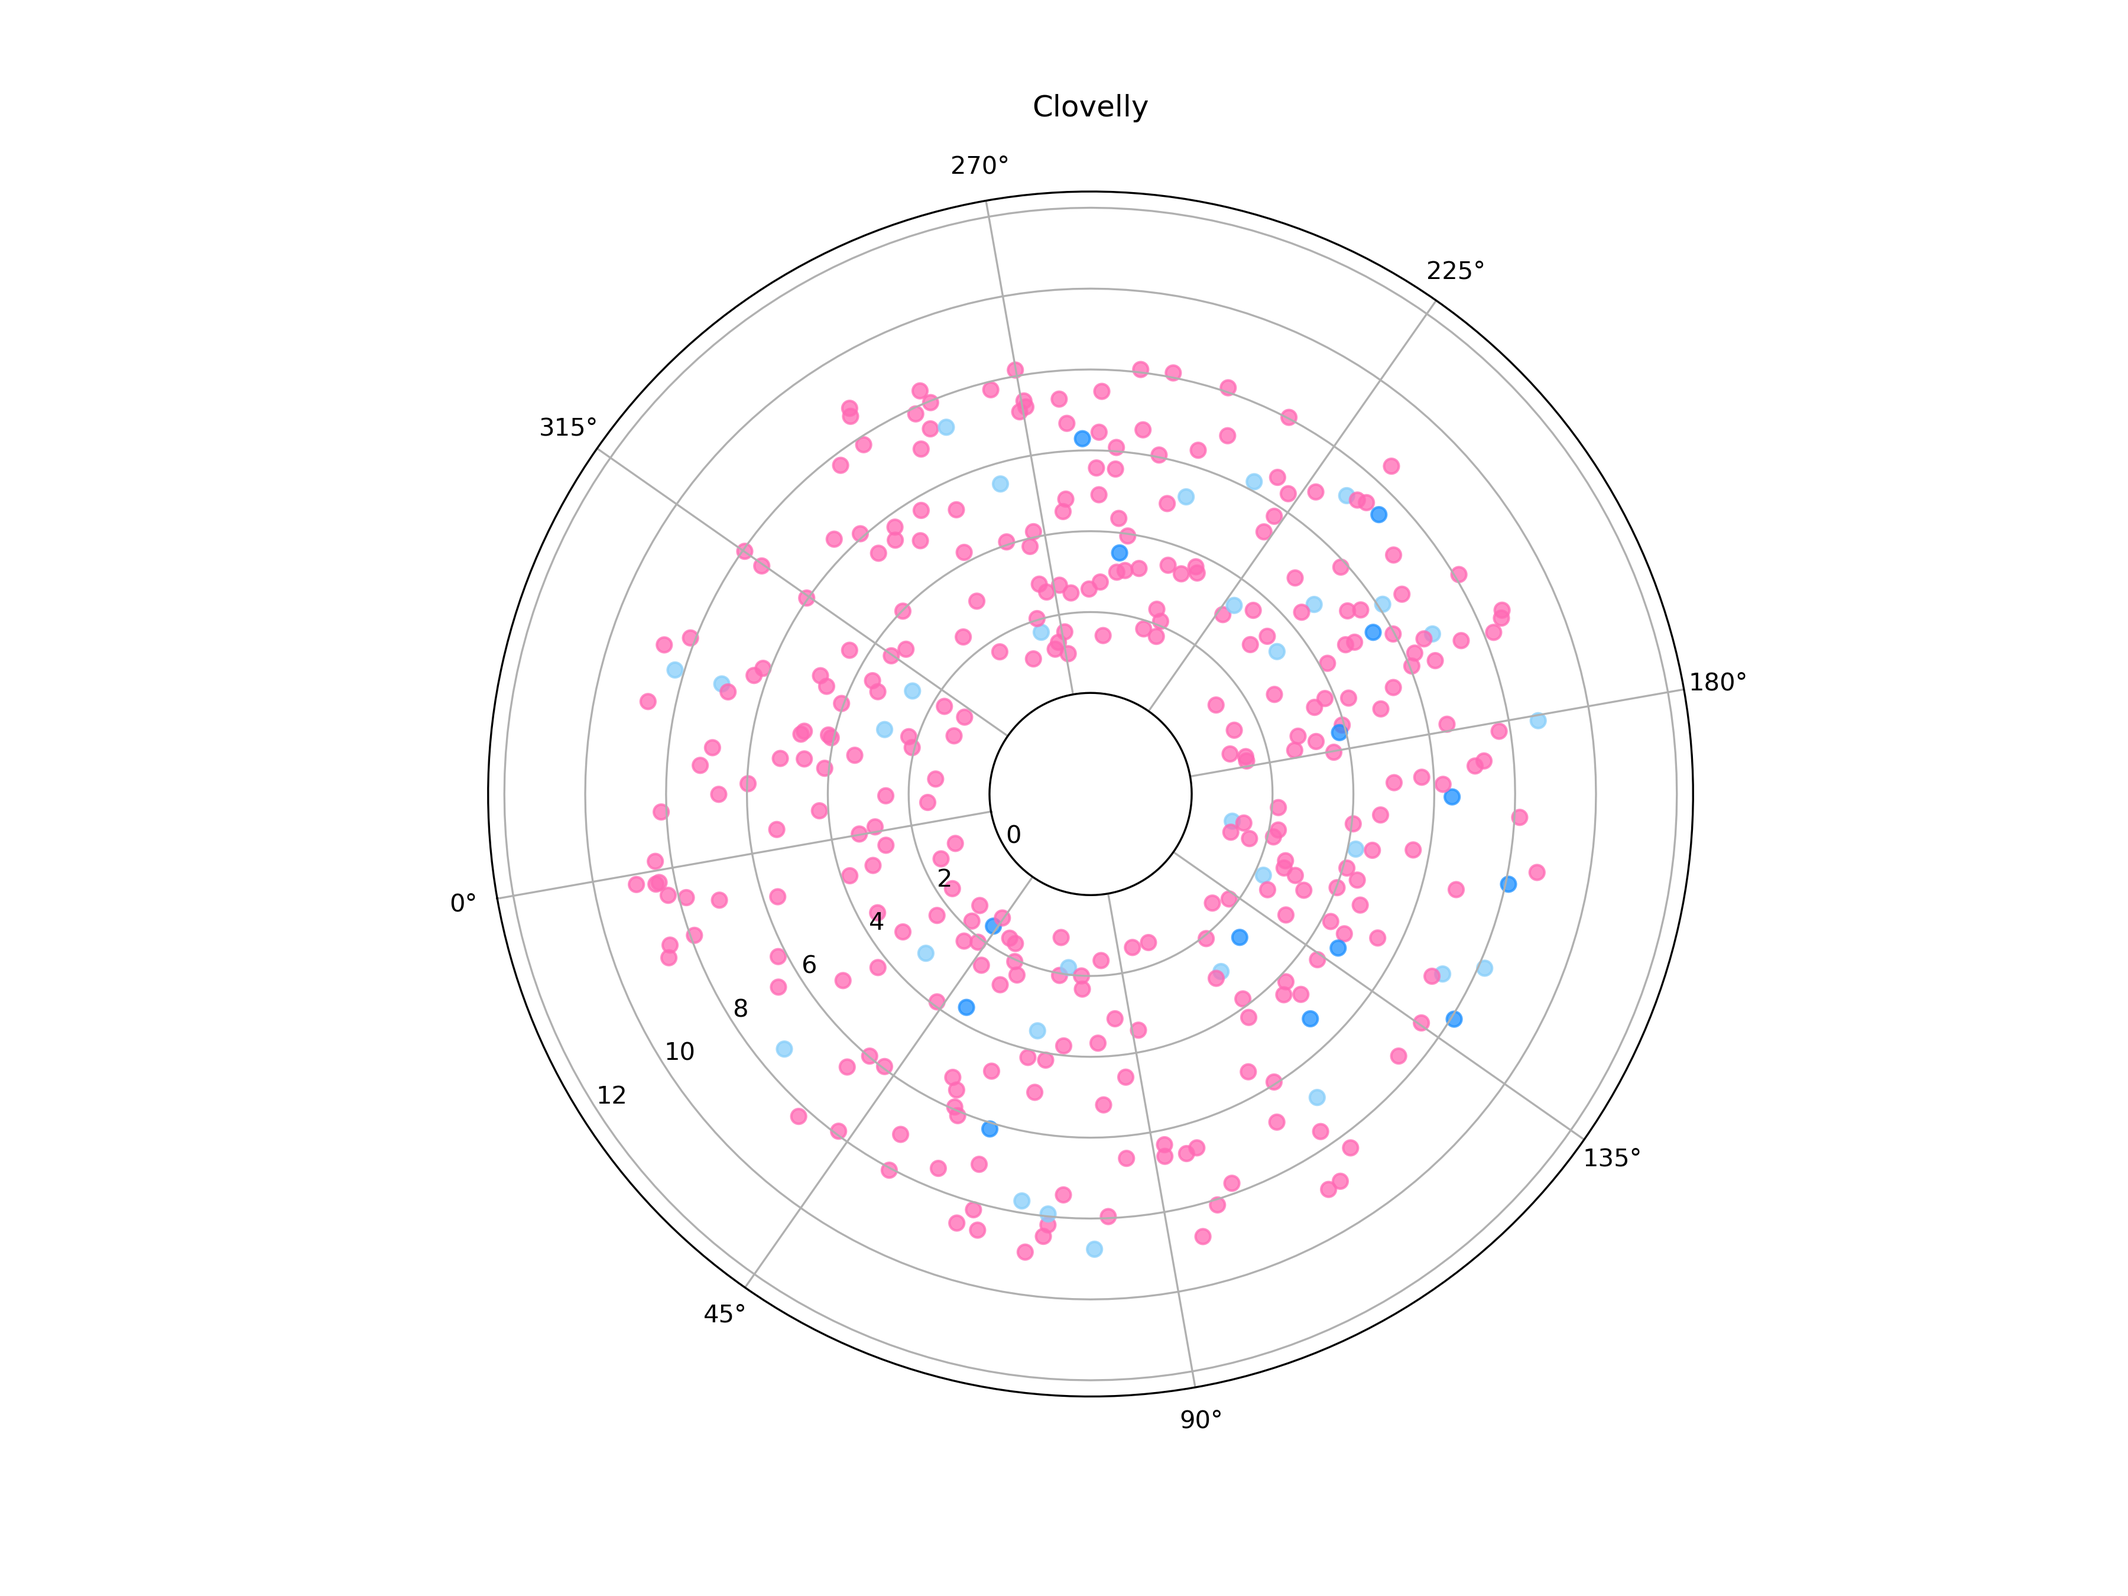
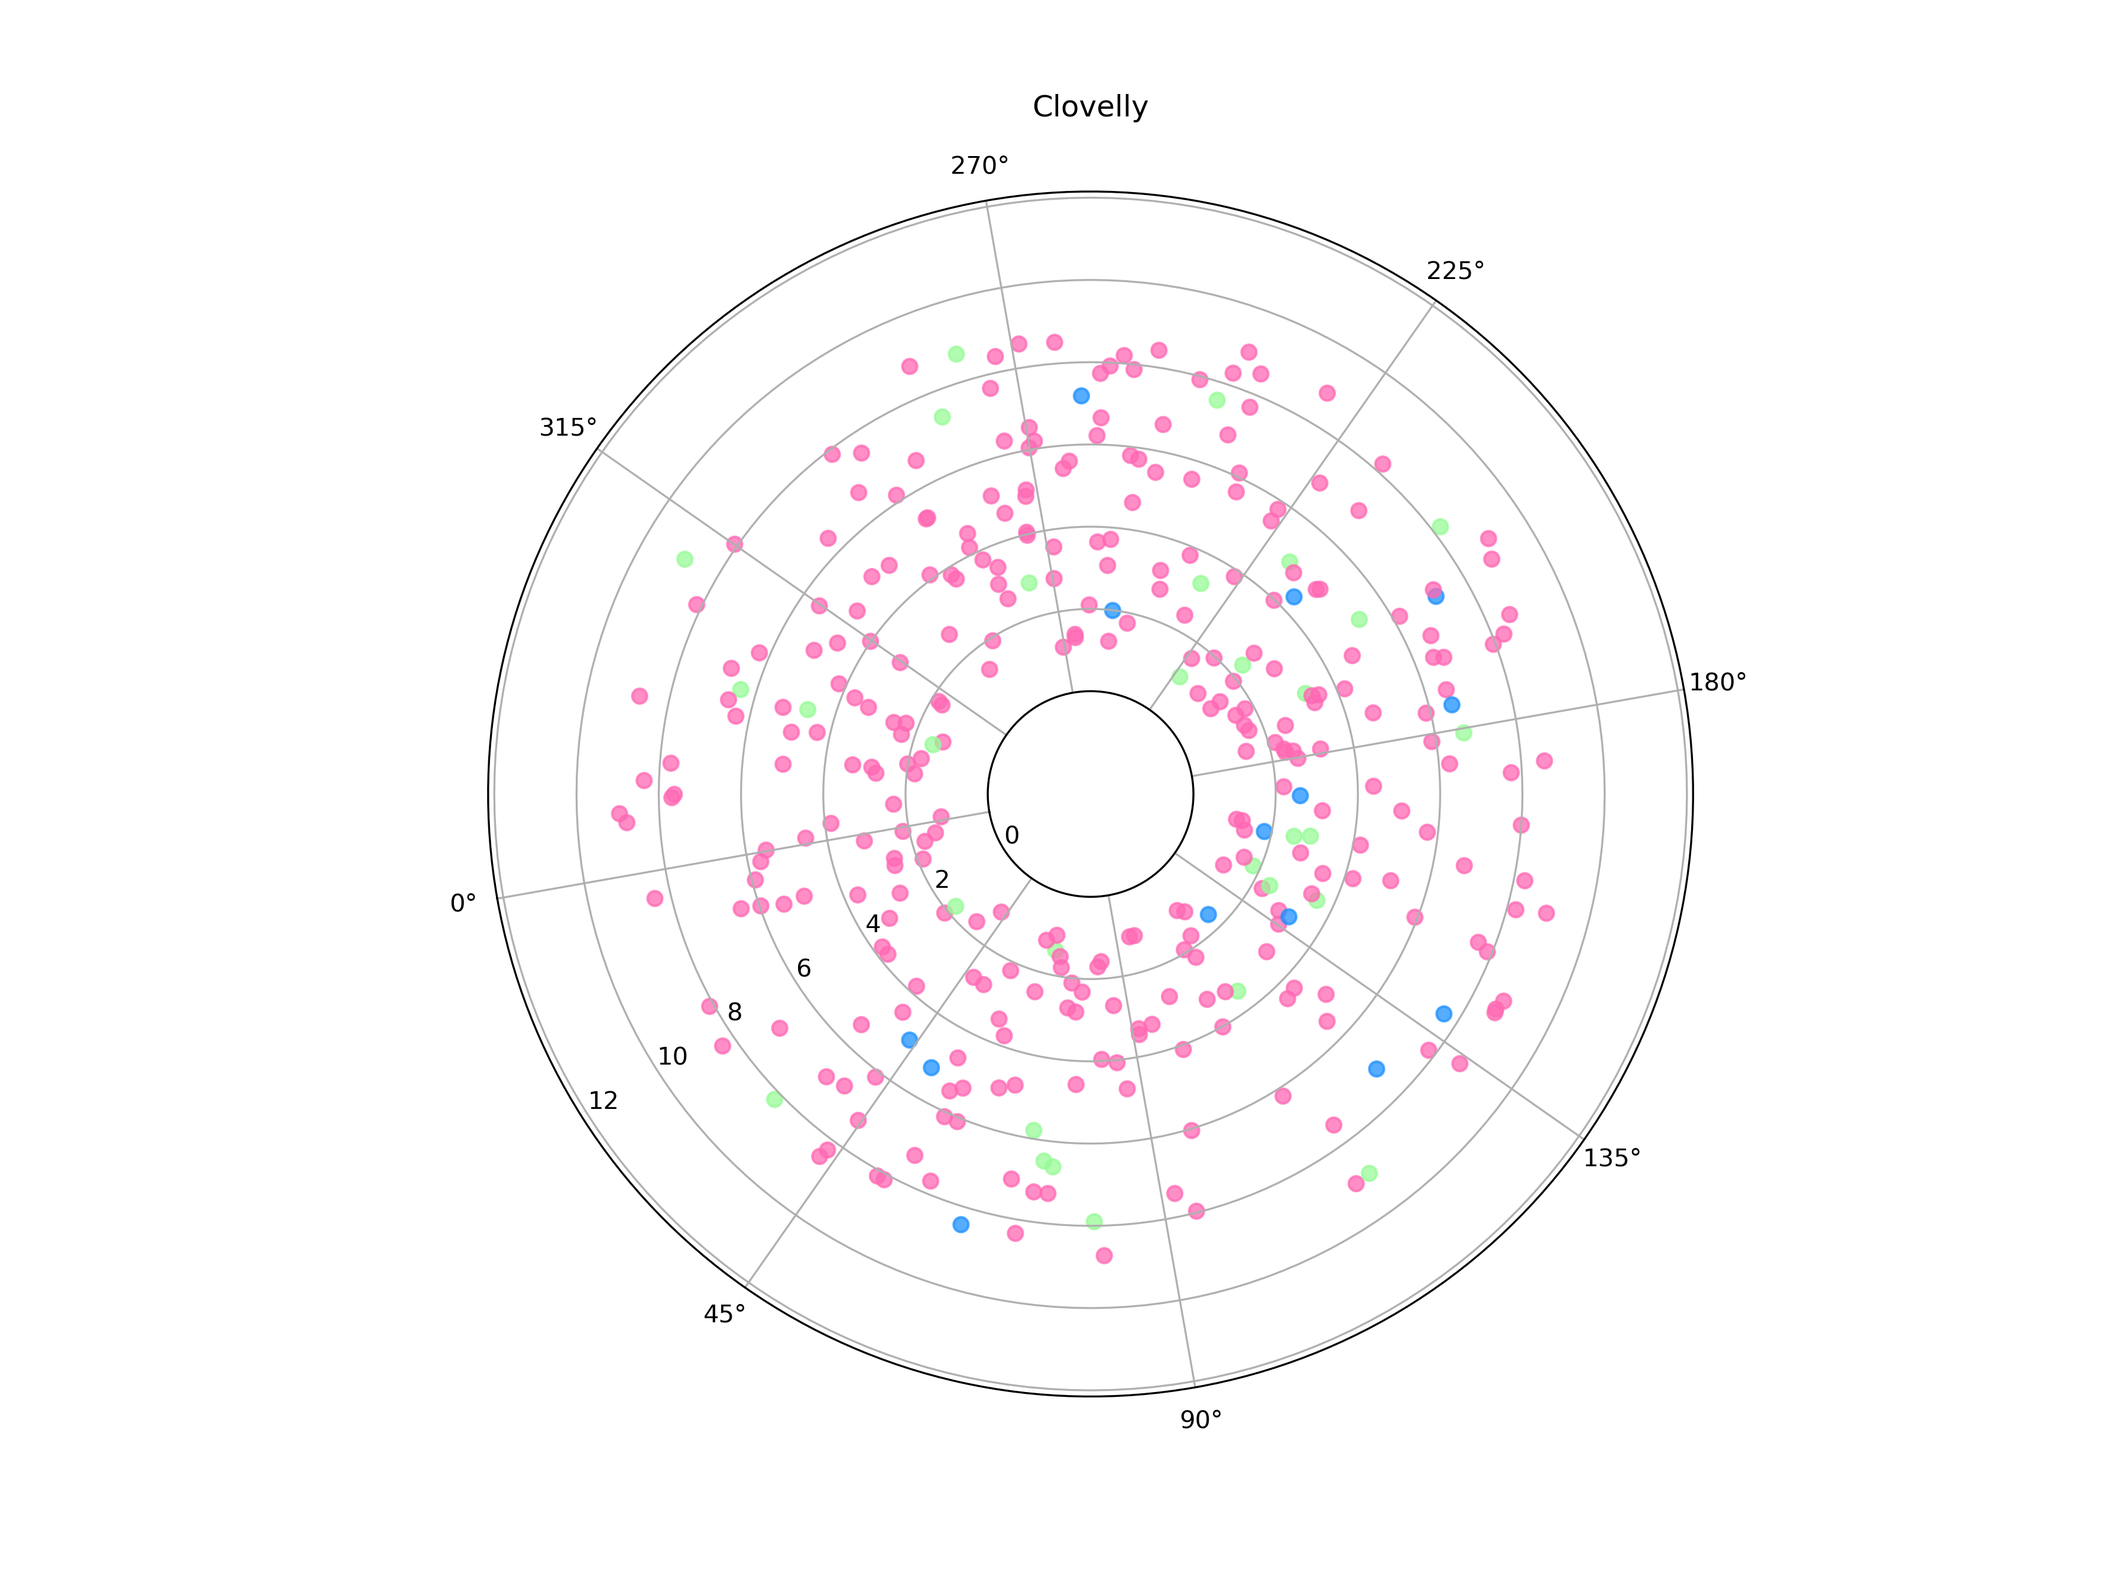
Replot all with corrected time

Changed region(s): [[0.28, 0.1867, 0.7467, 0.8089], [0.6222, 0.2178, 0.6533, 0.2489], [0.28, 0.6844, 0.3111, 0.7156]]

diff --git a/observation_data/analysis_observation_data/analysis_bluebottle_lifeguard.py b/observation_data/analysis_observation_data/analysis_bluebottle_lifeguard.py
@@ -324,30 +324,30 @@ def BoxPlot(nb,date_plot,BOMdaily):
     for i in range(len(date_box[nb][0])):
         for j in range(len(date_plot)):
             if date_box[nb][0][i]==date_plot[j]:
-                if np.isnan(BOMdaily[j])==False:
-                    wind_direction_box0.append(BOMdaily[j])
+                if np.isnan(BOMdaily[j-1])==False:
+                    wind_direction_box0.append(BOMdaily[j-1])
     
     for i in range(len(date_box[nb][1])):
         for j in range(len(date_plot)):
             if date_box[nb][1][i]==date_plot[j]:
-                if np.isnan(BOMdaily[j])==False:
-                    wind_direction_box1.append(BOMdaily[j])
+                if np.isnan(BOMdaily[j-1])==False:
+                    wind_direction_box1.append(BOMdaily[j-1])
                 
     for i in range(len(date_box[nb][2])):
         for j in range(len(date_plot)):
             if date_box[nb][2][i]==date_plot[j]:
-                if np.isnan(BOMdaily[j])==False:
-                    wind_direction_box2.append(BOMdaily[j])
+                if np.isnan(BOMdaily[j-1])==False:
+                    wind_direction_box2.append(BOMdaily[j-1])
                     
    
     x=[wind_direction_box0, wind_direction_box1, wind_direction_box2]
     fig = plt.figure(figsize=(12,9))
     plt.title(location[nb])
     plt.ylabel('Wind direction (degrees)')
-    plt.boxplot(x)
+    plt.boxplot(x,whis=[5,95])
     plt.xticks([1,2,3],['None','Likely','Some'])
     plt.show()
-    fig.savefig("../outputs_observation_data/box_plot_"+str(location[nb])+".png",dpi=300)
+#    fig.savefig("../outputs_observation_data/box_plot_past_"+str(location[nb])+".png",dpi=300)
 
 def DailyAverage():
     t=[]
@@ -380,11 +380,11 @@ def WindDirectionTime(nb, date_plot, BOMdaily):
     month_fmt = mdates.DateFormatter('%m')
     for i in range(len(bluebottlesoupas)):
         if bluebottlesoupas[i]==1.0:
-            observed=plt.scatter(date_plot[i],BOMdaily[i],color='dodgerblue',s=12)
+            observed=plt.scatter(date_plot[i],BOMdaily[i-1],color='dodgerblue',s=12)
         elif bluebottlesoupas[i]==0.5:
-            likely=plt.scatter(date_plot[i],BOMdaily[i],color='lightskyblue',s=12)
+            likely=plt.scatter(date_plot[i],BOMdaily[i-1],color='palegreen',s=12)
         elif bluebottlesoupas[i]==0.:
-            none=plt.scatter(date_plot[i],BOMdaily[i],color='hotpink',alpha=0.3, marker='+',s=10)
+            none=plt.scatter(date_plot[i],BOMdaily[i-1],color='hotpink',alpha=0.3, marker='+',s=10)
             
     ax.xaxis.set_major_locator(years)
     ax.xaxis.set_major_formatter(years_fmt)
@@ -400,8 +400,8 @@ def WindDirectionTime(nb, date_plot, BOMdaily):
                 loc='lower right',
                 ncol=3,
                 fontsize=8)
-    #plt.show()
-    fig.savefig("../outputs_observation_data/plot_wind_direction"+str(location[nb])+".png",dpi=300)
+    plt.show()
+    fig.savefig("../outputs_observation_data/gust_direction_past_"+str(location[nb])+".png",dpi=300)
 
 
 file_name = '../raw_observation_data/bom_port_kembla/all_IDO.csv'
@@ -422,25 +422,44 @@ def GetKurnellData(file):
     month=np.zeros(len(file))
     year=np.zeros(len(file))
     date=[]
+    wind_u=np.zeros(len(file))
+    wind_v=np.zeros(len(file))
+    max_speed=np.zeros(len(file))
+    max_direction=np.zeros(len(file))
     wind_direction=np.zeros(len(file))
-    daily=np.zeros(len(file))
+    wind_speed=np.zeros(len(file))
+    daily_direction=np.zeros(len(file))
+    daily_speed=np.zeros(len(file))
+    def GetU(daily_speed,daily_direction):
+        wind_u = - daily_speed * np.sin(np.pi / 180 * daily_direction)
+        return wind_u
+    
+    def GetV(daily_speed,daily_direction):
+        wind_v = - daily_speed * np.cos(np.pi / 180 * daily_direction)
+        return wind_v
+    
     for i in range(len(file)):
         day[i]=file.Day[i]
         month[i]=file.Month[i]
         year[i]=file.Year[i]
         wind_direction[i]=file.Wind_direction_00[i]+file.Wind_direction_03[i]+file.Wind_direction_06[i]+file.Wind_direction_09[i]+float(file.Wind_direction_12[i])+float(file.Wind_direction_15[i])+float(file.Wind_direction_18[i])+float(file.Wind_direction_21[i])
-        daily[i]=(wind_direction[i])/8
-
+        daily_direction[i]=(wind_direction[i])/8
+        wind_speed[i]=file.Wind_speed_00[i]+file.Wind_speed_03[i]+file.Wind_speed_06[i]+file.Wind_speed_09[i]+float(file.Wind_speed_12[i])+float(file.Wind_speed_15[i])+float(file.Wind_speed_18[i])+float(file.Wind_speed_21[i])
+        daily_speed[i]=(wind_speed[i])/8
+        wind_u[i]=1/8*GetU(file.Wind_speed_00[i],file.Wind_direction_00[i])+GetU(file.Wind_speed_03[i],file.Wind_direction_03[i])+GetU(file.Wind_speed_06[i],file.Wind_direction_06[i])+GetU(file.Wind_speed_09[i],file.Wind_direction_09[i])+GetU(file.Wind_speed_12[i],file.Wind_direction_12[i])+GetU(file.Wind_speed_15[i],file.Wind_direction_15[i])+GetU(file.Wind_speed_18[i],file.Wind_direction_18[i])+GetU(file.Wind_speed_21[i],file.Wind_direction_21[i])
+        wind_v[i]=1/8*GetV(file.Wind_speed_00[i],file.Wind_direction_00[i])+GetV(file.Wind_speed_03[i],file.Wind_direction_03[i])+GetV(file.Wind_speed_06[i],file.Wind_direction_06[i])+GetV(file.Wind_speed_09[i],file.Wind_direction_09[i])+GetV(file.Wind_speed_12[i],file.Wind_direction_12[i])+GetV(file.Wind_speed_15[i],file.Wind_direction_15[i])+GetV(file.Wind_speed_18[i],file.Wind_direction_18[i])+GetV(file.Wind_speed_21[i],file.Wind_direction_21[i])
+        max_speed[i]=file.max_speed[i]
+        max_direction[i]=file.max_direction[i]
+    
     for i in range(len(file)):
         date.append(datetime.date(int(year[i]),int(month[i]),int(day[i])))
 
-    return date, daily
+    return date, daily_direction, daily_speed, wind_u, wind_v, max_direction, max_speed
 
 
 def PolarPlot(nb):
     blueb=[]
     daily=[]
-    marqueur=[]
     fig=plt.figure(figsize=(12,9))
     location=['Clovelly','Coogee','Maroubra']
     for i in range(len(daily_kurnell)):
@@ -450,7 +469,7 @@ def PolarPlot(nb):
                 if bluebottles[nb][j]==0.:
                     blueb.append('hotpink')
                 elif bluebottles[nb][j]==0.5:
-                    blueb.append('lightskyblue')
+                    blueb.append('palegreen')
                 elif bluebottles[nb][j]==1.:
                     blueb.append('dodgerblue')
 
@@ -469,11 +488,39 @@ file_name_kurnell = '../raw_observation_data/wind_kurnell_sydney_observatory/Kur
 file=pd.read_csv(file_name_kurnell)
 df = file.apply(pd.to_numeric, args=('coerce',)) # inserts NaNs where empty cell!!! grrrr
 
-date_kurnell, daily_kurnell=GetKurnellData(df)
+date_kurnell, daily_kurnell, speed_kurnell, u_kurnell, v_kurnell, max_direction, max_speed=GetKurnellData(df)
 
-#for i in range(len(beach)):
-#    WindDirectionTime(i,date_kurnell,daily_kurnell)
-for i in range(3):
-    PolarPlot(i)   
+def UVplot():
+    years = mdates.YearLocator()   # every year
+    months = mdates.MonthLocator(range(0, 12), interval=2) # every 2month
+    years_fmt = mdates.DateFormatter('%Y')
+    month_fmt = mdates.DateFormatter('%m')
+    fig=plt.figure()
+    ax=plt.subplot(2,1,1)
+    plt.plot(date_kurnell,v_kurnell)
+    plt.ylabel('V')
+    ax1=plt.subplot(2,1,2)
+    plt.plot(date_kurnell,u_kurnell)
+    plt.ylabel('U')
+    ax.xaxis.set_major_locator(years)
+    ax.xaxis.set_major_formatter(years_fmt)
+    ax.xaxis.set_minor_locator(months)
+    ax.xaxis.set_minor_formatter(month_fmt)
+    ax1.xaxis.set_major_locator(years)
+    ax1.xaxis.set_major_formatter(years_fmt)
+    ax1.xaxis.set_minor_locator(months)
+    ax1.xaxis.set_minor_formatter(month_fmt)
+    plt.show()
+    
+#   fig.savefig("../outputs_observation_data/U_V_plot.png",dpi=300)
+
+for i in range(len(beach)):
+    WindDirectionTime(i,date_kurnell,max_direction)
+    
 #for i in range(3):
-#    BoxPlot(i, date_kurnell, daily_kurnell)
+#    PolarPlot(i)
+
+    
+    
+#for i in range(3):
+ #  BoxPlot(i, date_kurnell, max_direction)

diff --git a/imos_current_data/analysis_imos_current_data/plot_trajectory_imos.py b/imos_current_data/analysis_imos_current_data/plot_trajectory_imos.py
@@ -6,15 +6,32 @@
 
 from parcels import FieldSet, ParticleSet, Variable, JITParticle, AdvectionRK4, plotTrajectoriesFile, ErrorCode
 import numpy as np
+import scipy as sc
 import math
 from datetime import timedelta, datetime
 from operator import attrgetter
 import copy_plottrajectoriesfile as cpt
 import matplotlib.animation as animation
 import imageio
+import matplotlib.pyplot as plt
+import scipy.io as sio #to load matlab file
+
+"""
+def func(x, y):
+    return x*(1-x)*np.cos(4*np.pi*x) * np.sin(4*np.pi*y**2)**2
+grid_x, grid_y = np.mgrid[0:1:100j, 0:1:200j]
+
+points = np.random.rand(1000, 2)
+values = func(points[:,0], points[:,1])
+
+grid_z0 = sc.interpolate.griddata(points, values, (grid_x, grid_y), method='nearest')
+plt.subplot(222)
+plt.imshow(grid_z0.T, extent=(0,1,0,1), origin='lower')
+plt.title('Nearest')
+plt.show()
+"""
 
 def PlotImosFile(filenames):
-    
     """
     Plot trajectory of particles in a current field (input in .nc) 
     """
@@ -25,43 +42,65 @@ def PlotImosFile(filenames):
                   'lon' : 'LONGITUDE',
                   'time' : 'TIME'}
 
-    def WestVel(particle, fieldset, time):
-        if time > 86400:
-            uvel = -0.02
-            particle.lon += uvel * particle.dt
-      
+    fieldset = FieldSet.from_netcdf(filenames, variables, dimensions)
+    lati=fieldset.U.lat
+    longi=fieldset.U.lon
+    points=[lati,longi]
+    ucur=fieldset.U.data
+    vcur=fieldset.V.data
+    new_x=np.linspace(24,36,100)
+    new_y=np.linspace(150,160,100)
+    neww=np.meshgrid(new_x,new_y)
+    u_new = sc.interpolate.griddata(points, ucur, neww, method='nearest')
+    
+         
     def DeleteParticle(particle, fieldset, time):
         particle.delete()
+        
     images = []
-    fieldset = FieldSet.from_netcdf(filenames, variables, dimensions)
-    pset = ParticleSet.from_line(fieldset=fieldset,   # the fields on which the particles are advected
-                                pclass=JITParticle,
-                                size=10,
-                                start=(151.259, -33.919),
-                                finish=(151.257,-33.923))
-                              #  start=(152., -30),
-                               # finish=(159.,-34))
+
+    
+    #pset = ParticleSet.from_line(fieldset=fieldset,   
+                            #   pclass=JITParticle,
+                            #    size=10,
+                             #   start=(151.259, -33.919),
+                            #    finish=(151.257,-33.923))
+    
     
     pset=ParticleSet(fieldset=fieldset, pclass=JITParticle, lon=151.259, lat=-33.92, time=datetime(2019, 3, 9, 2))
 
-    k_WestVel = pset.Kernel(WestVel)
-    for i in range(55):
+    for i in range(1):
         pset.execute(AdvectionRK4,                 #
                     runtime=timedelta(hours=i),    # the total length of the run
                     dt=-timedelta(minutes=5),      # the timestep of the kernel
                     recovery={ErrorCode.ErrorOutOfBounds: DeleteParticle},
                     output_file=pset.ParticleFile(name="IMOSTRY.nc", outputdt=timedelta(hours=1)))
         
-       """ pset.show(domain={'N':-15, 'S':-42, 'E':170, 'W':140}, field='vector',vmin=0.,vmax=1.3, savefile='../outputs_imos_current_data/make_gif/particl_revers'+str(i)+'.png')
-        images.append(imageio.imread('../outputs_imos_current_data/make_gif/particl_revers'+str(i)+'.png'))
-    imageio.mimsave('../outputs_imos_current_data/particle_advection_reverse.gif', images)
+        plt.plot(lon_nsw, lat_nsw)
+        pset.show(domain={'N':-24, 'S':-36, 'E':160, 'W':150}, field='vector',vmin=0.,vmax=1.3, land=False)
+        
+        
+        pset.show(domain={'N':-15, 'S':-42, 'E':170, 'W':140}, field='vector',vmin=0.,vmax=1.3, savefile='../outputs_imos_current_data/make_gif/particl_revers'+str(i)+'.png')
+        #images.append(imageio.imread('../outputs_imos_current_data/make_gif/particl_revers'+str(i)+'.png'))
+    #imageio.mimsave('../outputs_imos_current_data/particle_advection_reverse.gif', images)
     
-   #cpt.plotTrajectoriesFileModified('IMOSTRY.nc',mode='movie2d', tracerlon='LONGITUDE',tracerlat='LATITUDE',tracerfield='UCUR');
-   tracerfile=filenames,
-                                     tracerlon='LONGITUDE',
-                                     tracerlat='LATITUDE',
-                                     tracerfield='UCUR');"""
+    cpt.plotTrajectoriesFileModified('IMOSTRY.nc',mode='movie2d',tracerlon='LONGITUDE',tracerlat='LATITUDE',tracerfield='UCUR');
+   #tracerfile=filenames,
+                   #                  tracerlon='LONGITUDE',
+                #                     tracerlat='LATITUDE',
+                #                     tracerfield='UCUR');
 
 
 filenames = "../raw_imos_current_data/IMOS_OceanCurrent_HV_2019_C-20190520T232835Z.nc"
 PlotImosFile(filenames)
+
+"""
+nsw boundaries
+
+    mat_boundaries = sio.loadmat('../../nsw_boundaries/raw_nsw_boundaries/NSW_boundary.mat')
+    lat_nsw=mat_boundaries['lat_nsw'][0]
+    lon_nsw=mat_boundaries['lon_nsw'][0]
+    lon_nsw, lat_nsw = LimitBoundaries(lon_nsw, lat_nsw, 149.5)
+
+
+"""

diff --git a/nsw_boundaries/analysis_nsw_boundaries/plot_NSW_boundaries.py b/nsw_boundaries/analysis_nsw_boundaries/plot_NSW_boundaries.py
@@ -4,7 +4,6 @@
 @author : Natacha
 """
 
-
 """
 Read Shapefile, plot NSW boundaries, create a grid 
 """
@@ -46,7 +45,7 @@ lon, lat=GetLonLat(lonmin, lonmax, latmin, latmax, stepsizelon)
 plt.plot(lon, lat, marker='.', color='k', linestyle='none')
 
 """Load & read Matlab file"""
-mat_boundaries = sio.loadmat('NSW_boundary.mat')
+mat_boundaries = sio.loadmat('../raw_nsw_boundaries/NSW_boundary.mat')
 lat_nsw=mat_boundaries['lat_nsw'][0]
 lon_nsw=mat_boundaries['lon_nsw'][0]
 lon_nsw, lat_nsw = LimitBoundaries(lon_nsw, lat_nsw, 149.5)
